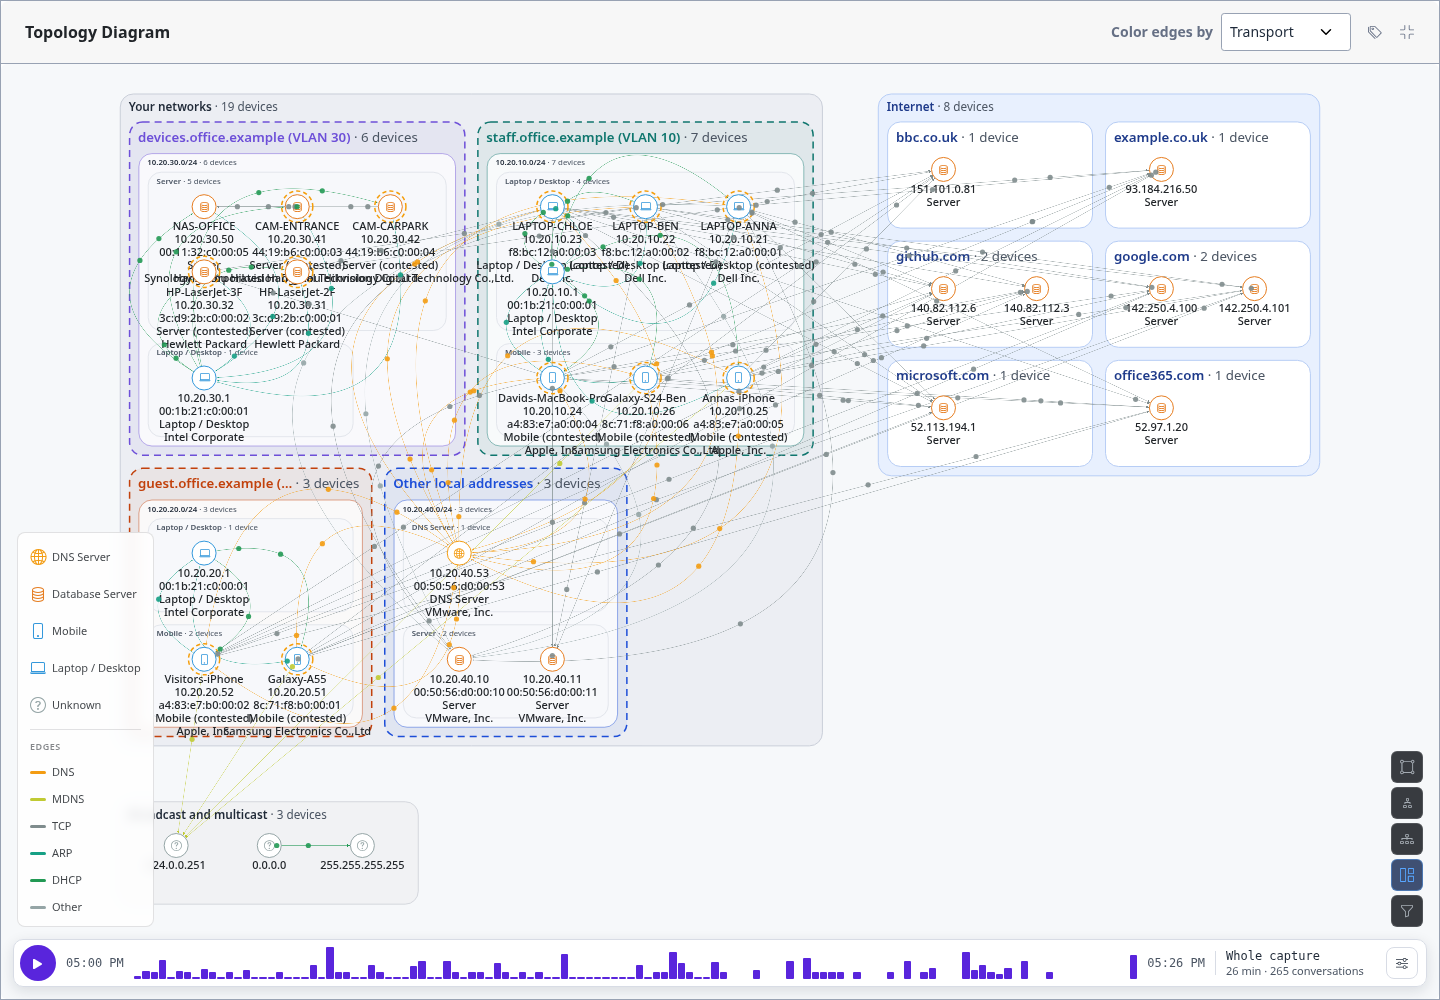
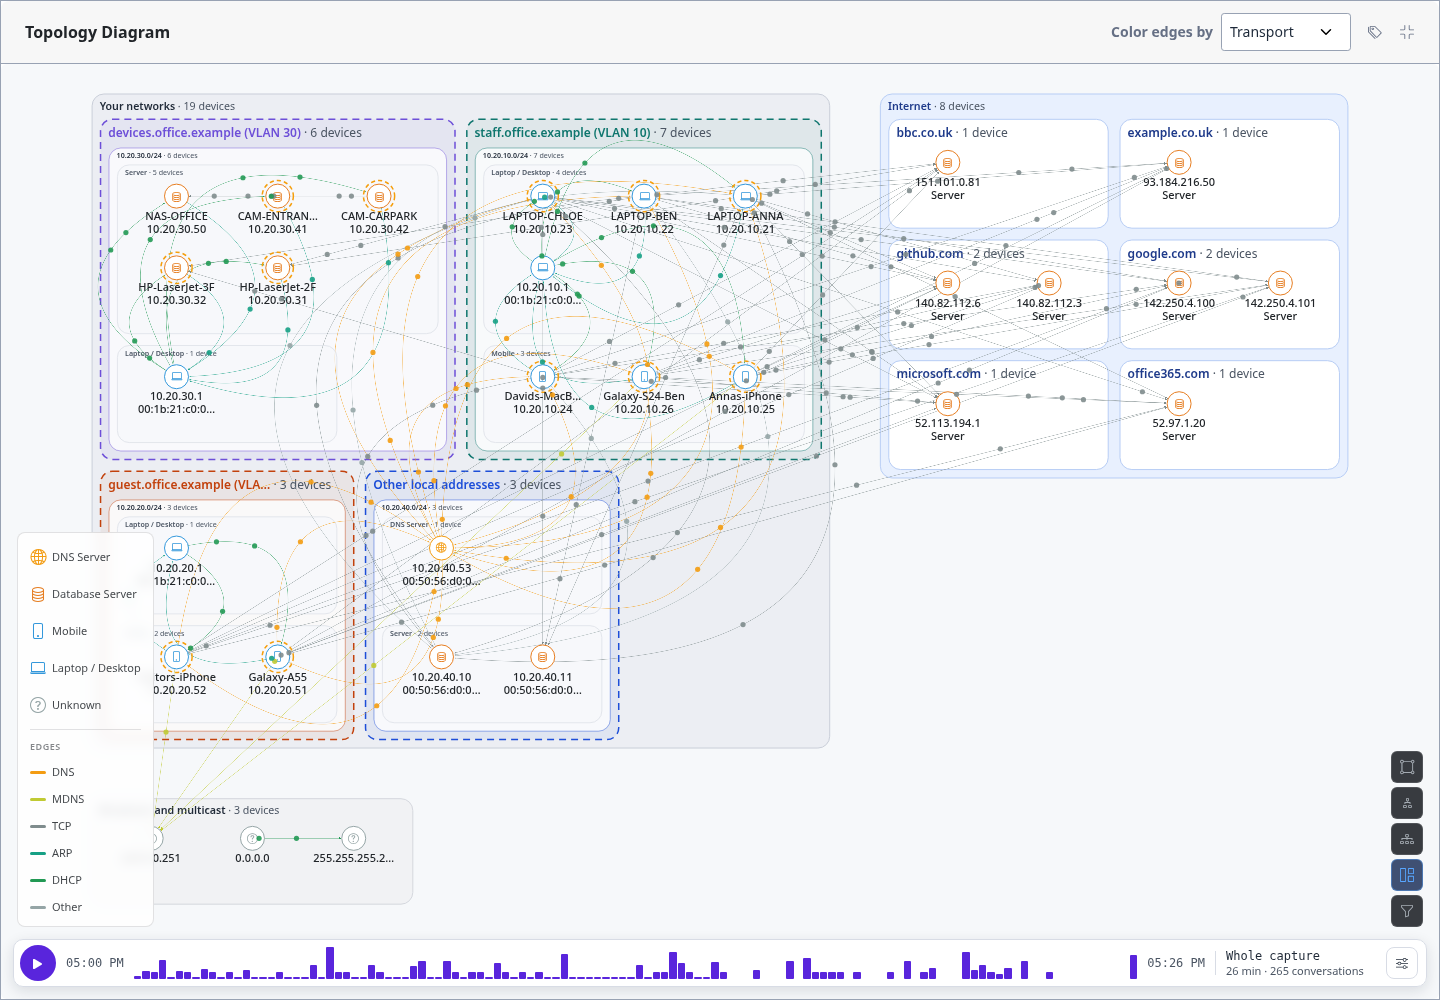
docs: network map labels fit their cells

Changed region(s): [[0.0625, 0.093, 0.9375, 0.868]]

diff --git a/docs/features/network-map.rst b/docs/features/network-map.rst
@@ -39,6 +39,10 @@ Each box sits inside the one above it:
 - **Broadcast and multicast**: ``0.0.0.0``, ``255.255.255.255`` and multicast
   addresses.
 
+Device labels are fitted to their cell, so neighbours never overlap: with the
+whole map in view a device shows its first lines (name and address), cut to fit,
+and zooming in shows the rest. Hover a device to read all of it.
+
 Each network has its own colour. A router that serves several networks from one
 MAC address shows once per network: each of its addresses goes in the network
 whose range holds it. A box's name shows how many devices it holds;
